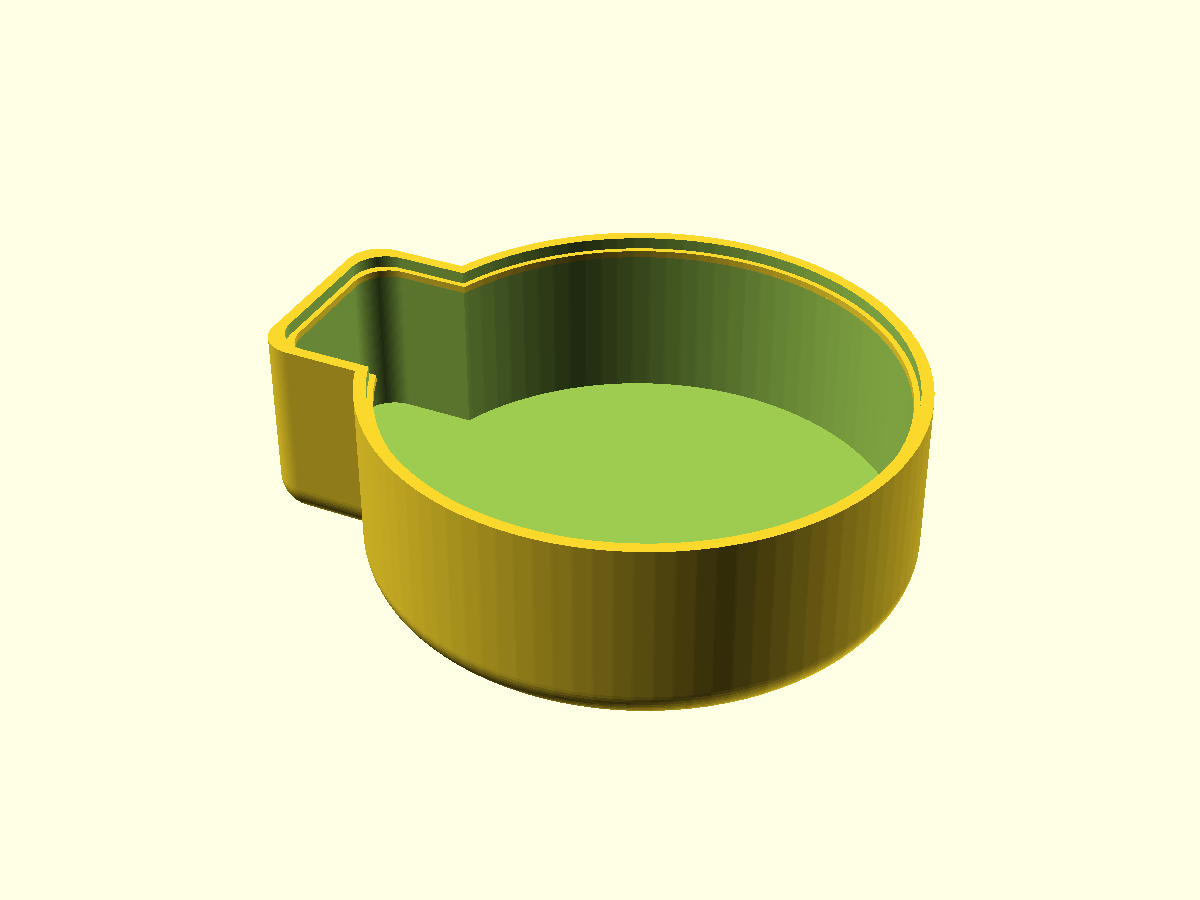
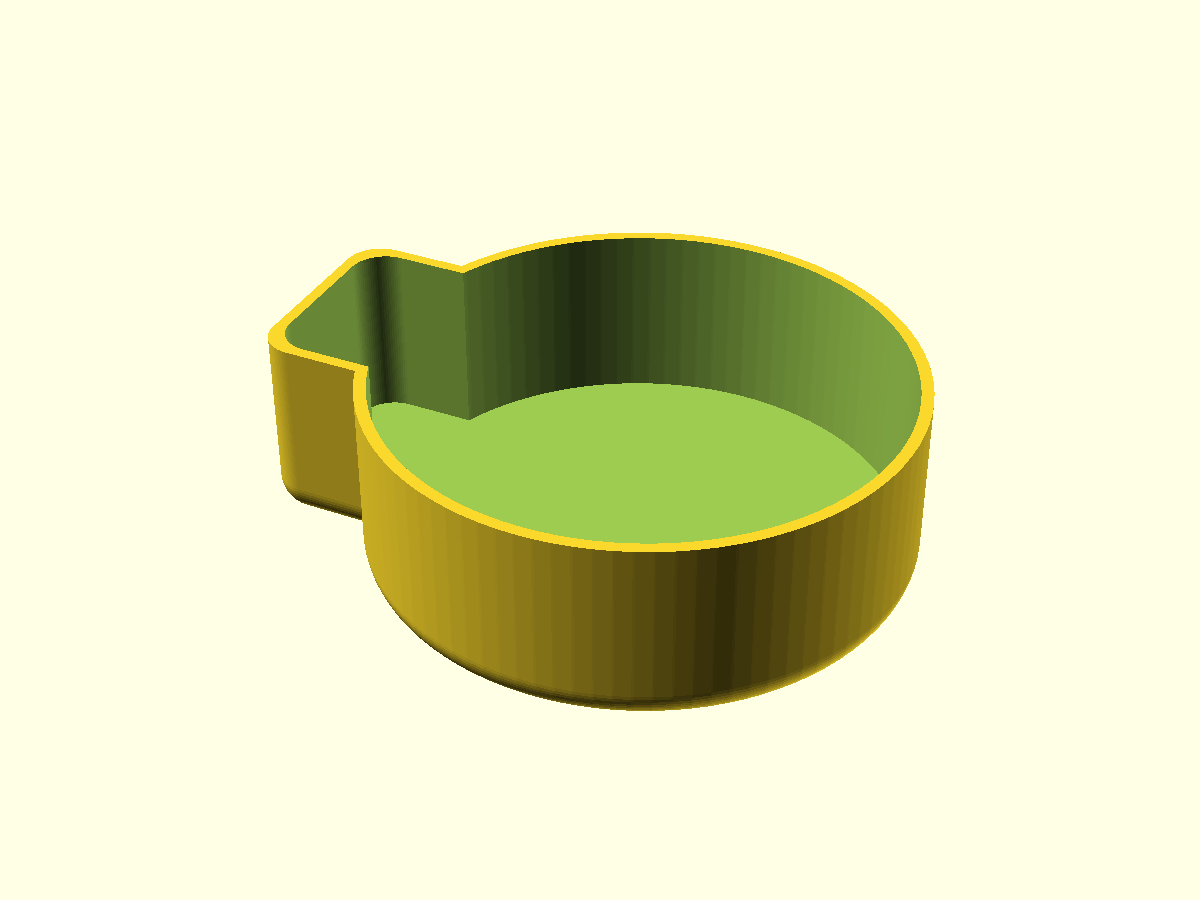
feat(container): drop snap bead, keep friction-fit lid

diff --git a/CHANGELOG.md b/CHANGELOG.md
@@ -1,5 +1,16 @@
 # Changelog
 
+## [0.8.2] - 2026-09-13
+
+- **why:** Drop the snap bead: the neck groove never rendered reliably and the feature cost more than it delivered
+- **model:** openrouter/z-ai/glm-5.3-flash
+- **tags:** container, lid, snap-bead, removal
+
+### Removed
+
+- Snap bead and matching neck groove from `drawings/container/travel-porage-container.scad`: parameters (`bead`, `bead_h`, `bead_w`, `bead_lift`), ring geometry (`groove_ring`, `bead_ring`), the groove cut in the neck band, the bead ring in the lid, and the three bead sanity asserts
+- Regenerated both previews (`travel-porage-container.png`, `travel-porage-lid.png`) as full CGAL renders of the plain friction-fit design
+
 ## [0.8.1] - 2026-09-13
 
 - **why:** Remove a superseded memory entry that described an outdated render pipeline
